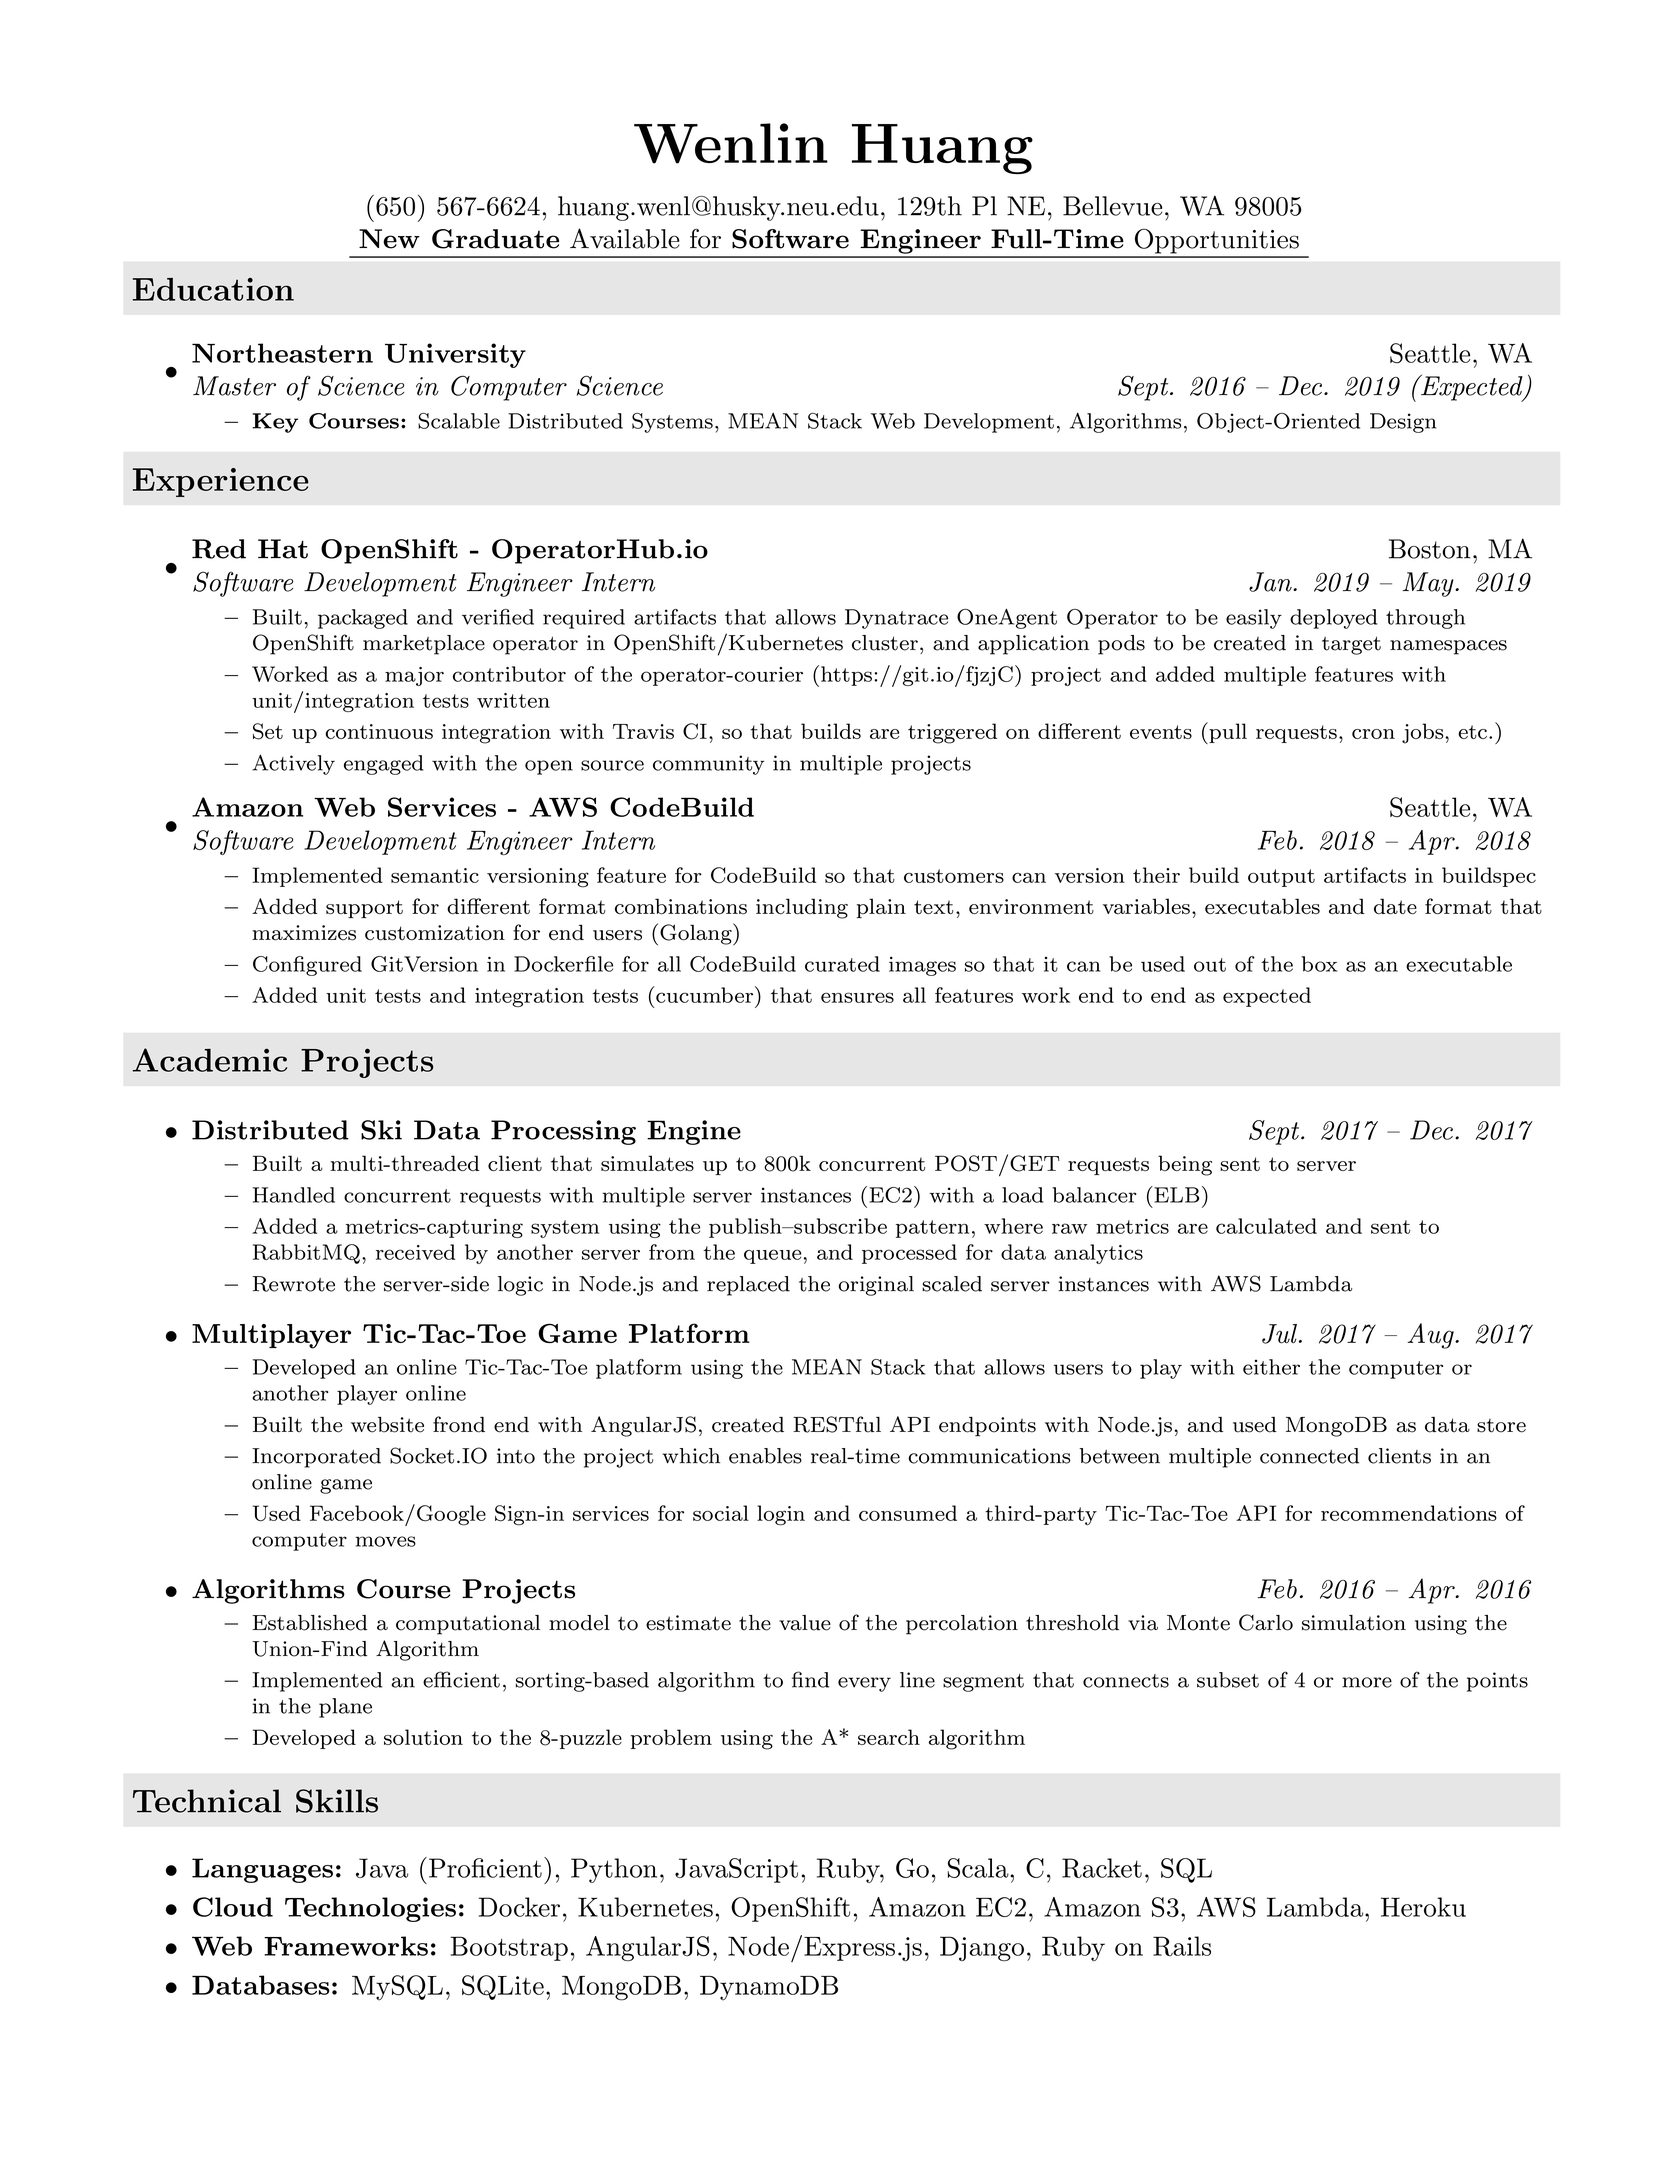
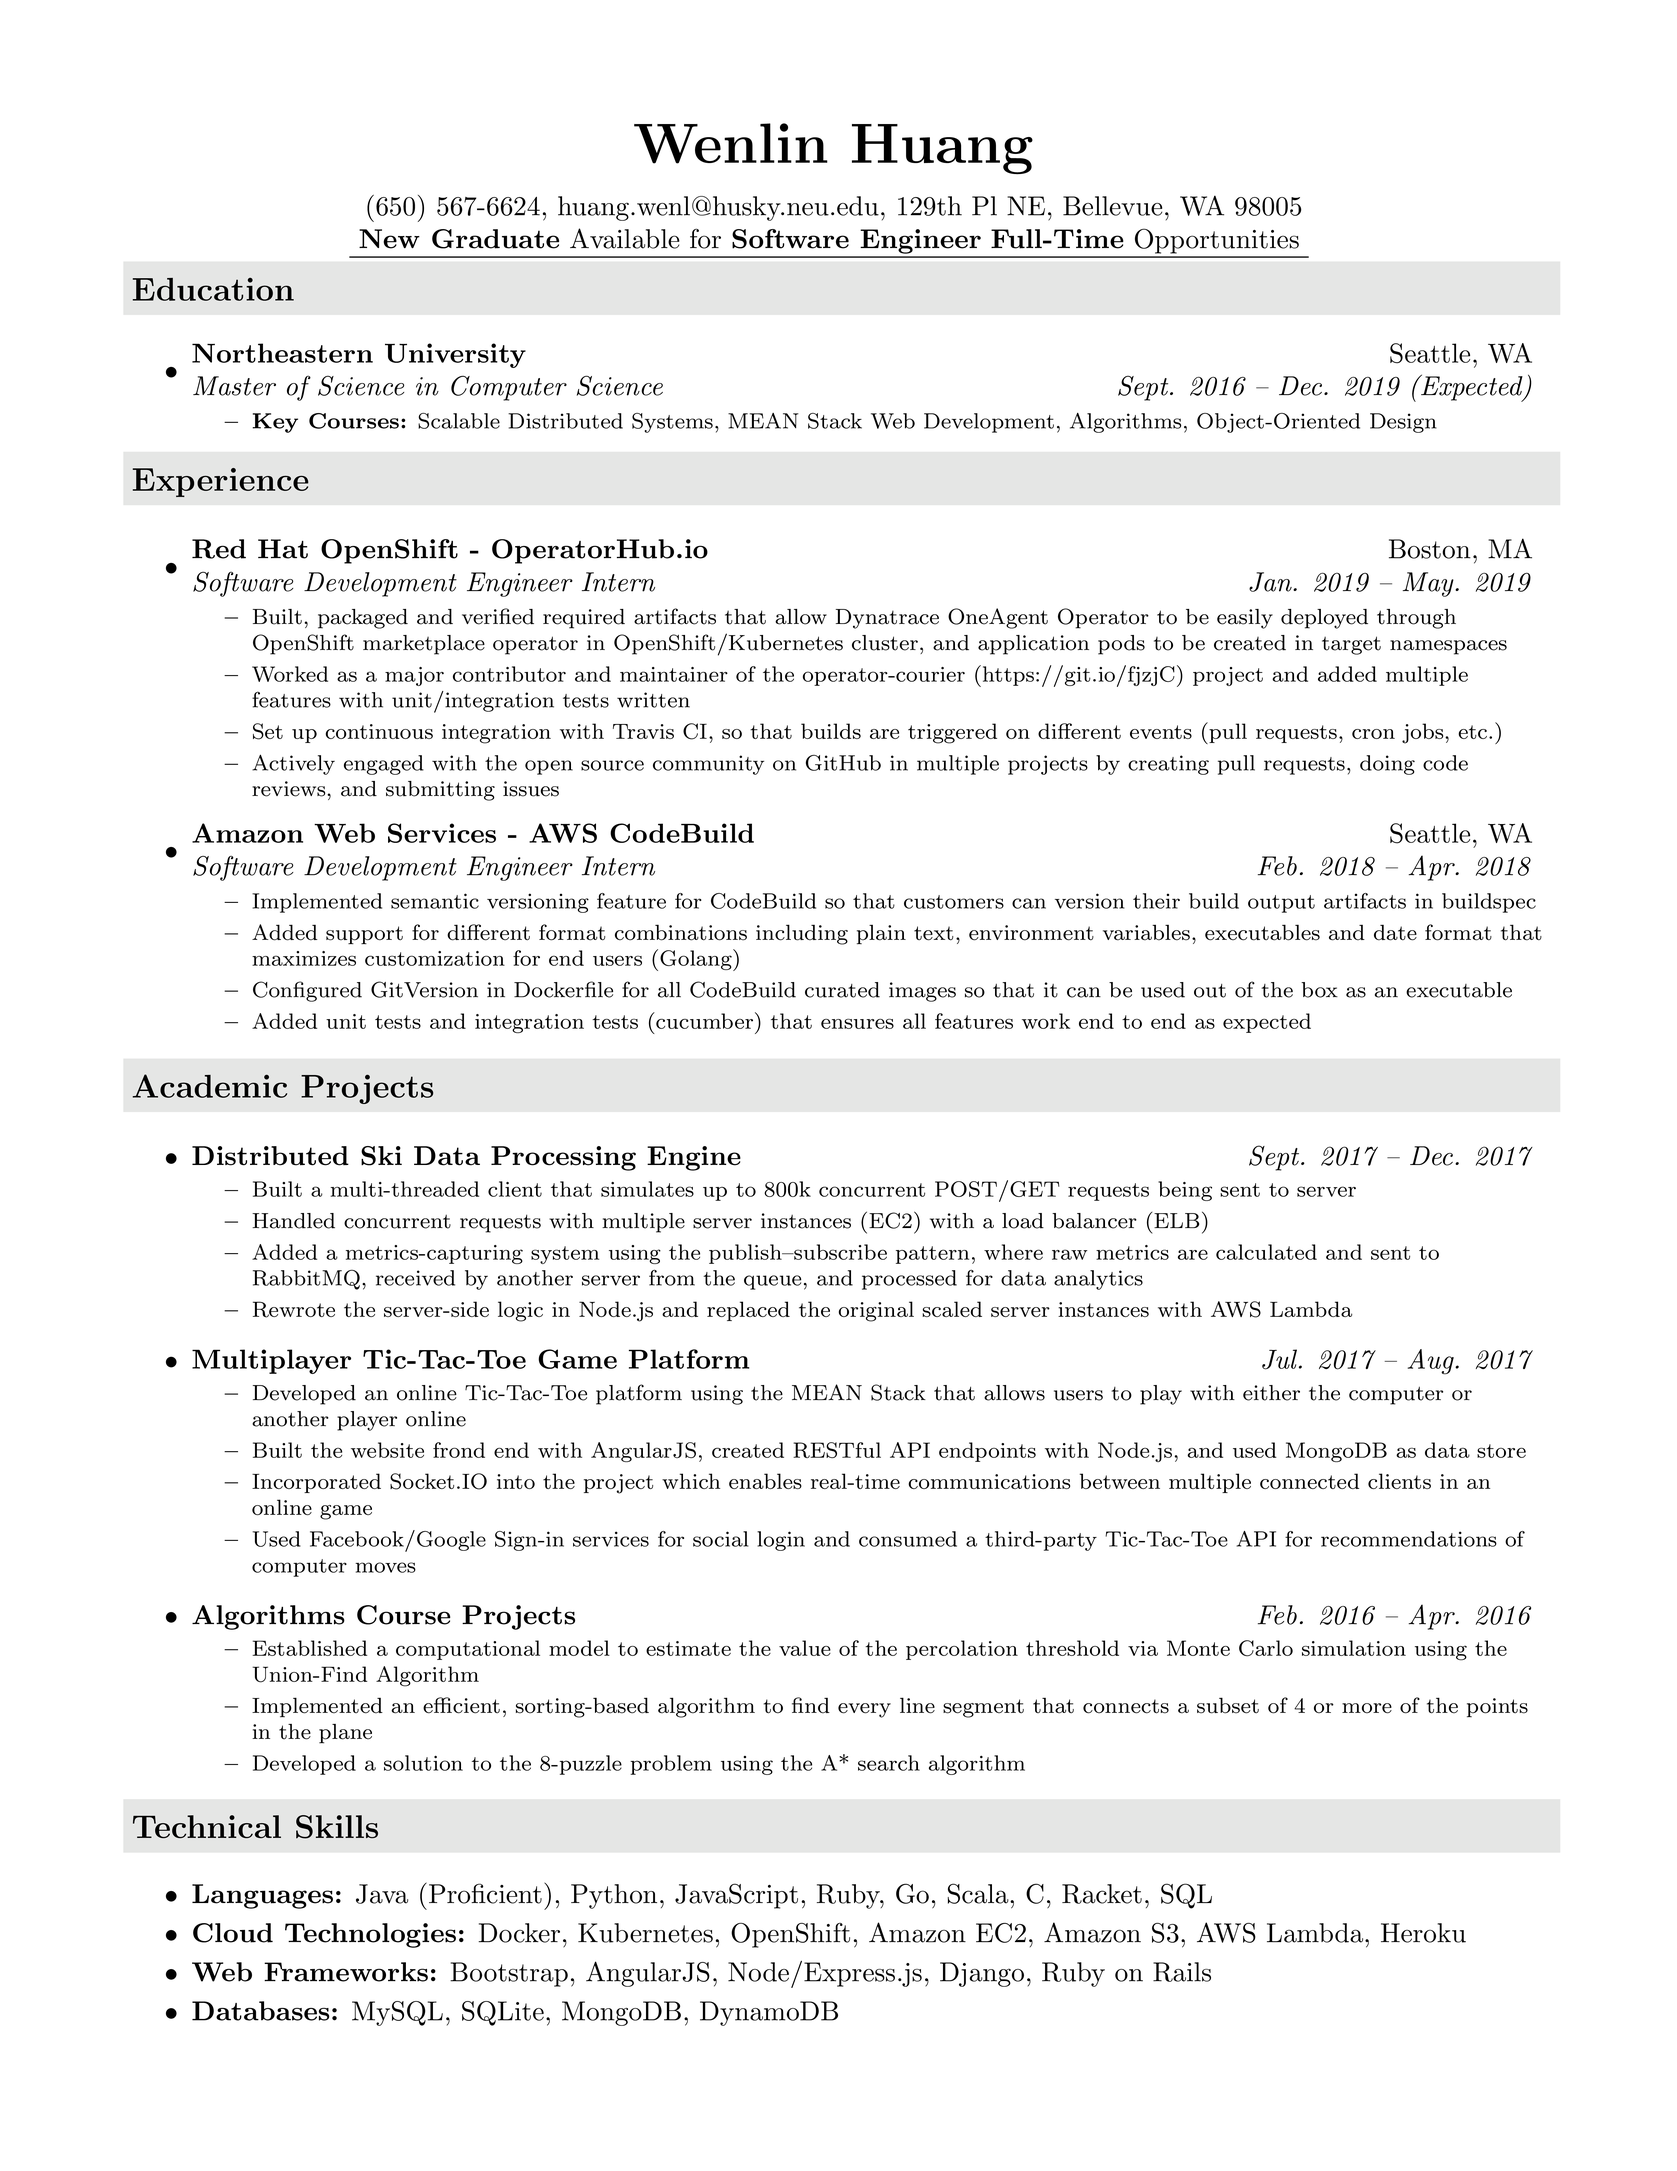
Update Red Hat internship description

Changed region(s): [[0.0625, 0.3438, 0.9375, 0.9375], [0.5, 0.2812, 0.875, 0.3125]]

diff --git a/src/Wenlin Huang - Software Engineer.tex b/src/Wenlin Huang - Software Engineer.tex
@@ -128,18 +128,19 @@ urlcolor=black
         {\footnotesize
         \begin{itemize} %[leftmargin=0.15in]
             \resitem
-            {Built, packaged and verified required artifacts that allows Dynatrace OneAgent Operator
+            {Built, packaged and verified required artifacts that allow Dynatrace OneAgent Operator
             to be easily deployed through OpenShift marketplace operator in OpenShift/Kubernetes cluster,
             and application pods to be created in target namespaces}
             \resitem
-            {Worked as a major contributor of the
+            {Worked as a major contributor and maintainer of the
                 operator-courier (https://git.io/fjzjC)
             project and added multiple features with unit/integration tests written}
             \resitem
             {Set up continuous integration with Travis CI, so that builds are triggered
             on different events (pull requests, cron jobs, etc.)}
             \resitem
-            {Actively engaged with the open source community in multiple projects}
+            {Actively engaged with the open source community on GitHub in multiple projects
+            by creating pull requests, doing code reviews, and submitting issues}
         \end{itemize}
         }
 
